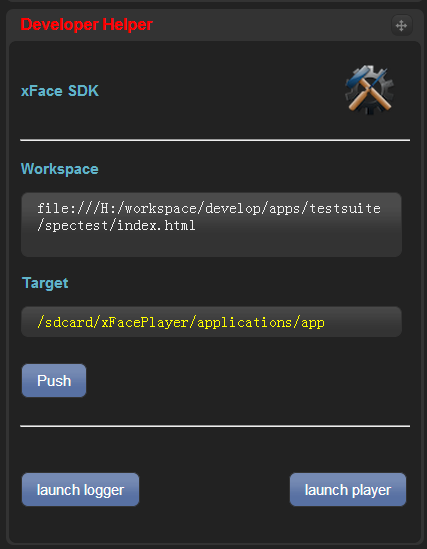
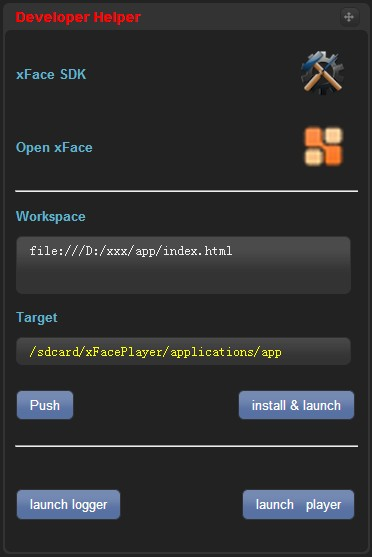
Updated emulator guide
1. Added faq for emulator
2. Updated developer helper panel
3. Added green chrome_emulator guide for emulator installation

diff --git a/tools/emulator/EmulatorInstallAndDebug.md b/tools/emulator/EmulatorInstallAndDebug.md
@@ -4,10 +4,43 @@ title: Emulator安装与应用调试
 lang: zh
 ---
 
-Emulator安装
----
+* Auto-generated toc:
+{:toc}
 
-   * 下载并安装最新的Google Chrome浏览器（参考版本：23.0.1271.64 m）
+## 便携版（推荐）
+**以下内容仅适用于Windows**
+
+对于Windows用户，我们推荐使用便携版Chrome_Emulator:
+
+   * 无需手动安装Emulator插件
+   * 无需手动为Chrome添加启动参数
+
+### 使用方式
+  
+   * 下载[Chrome_Emulator.zip]({{ site.baseurl }}/download/Emulator.zip)并解压到本地（注意：解压路径请不要含有中文字符）
+   * 进入解压后Chrome_Emulator所在目录，启动Chrome_Emulator.exe，请参见下图：
+   
+   ![](img/chrome_emulator_start_page.png)
+   
+   * 在Chrome地址栏中输入应用地址,形如：
+   
+      * __http://xxx/app/index.html__
+      
+      * __file:///D:/xxx/app/index.html__
+
+   * 点击Emulator插件图标![](img/emulatorIcon.png)，选择“Enable”等待页面重新加载
+
+   * 运行Chrome“开发者工具”开始应用调试
+
+## 手动版
+
+**以下内容适用于Windows以及OS X**
+
+手动版要求用户手动安装Emulator并设置Chrome启动参数，具体操作如下：
+
+### Emulator安装
+
+   * 下载并安装最新的Google Chrome浏览器（参考版本：23.0.1271.64）
 
    * 运行Chrome，在地址栏中输入chrome://chrome/extensions/并打开页面（或通过“工具”->“扩展程序”打开）
 
@@ -19,10 +52,10 @@ Emulator安装
 
        ![](img/emulatorAccessFile.png)
 
-应用调试
----
-本地应用调试
----
+### 应用调试
+
+#### 本地应用调试
+
    * 确保开启“允许访问文件网址”权限（打开chrome://chrome/extensions/开启）
 
    * 设置Chrome启动参数：
@@ -32,41 +65,27 @@ Emulator安装
          1. 选择“属性”并编辑“目标”，在行尾添加参数：　--allow-file-access-from-files --disable-web-security
          1. 编辑后“目标”行形如：chrome.exe --allow-file-access-from-files --disable-web-security
 
-      * OSＸ：
+      * OS X：
          1. 运行Terminal.app
          1. 输入： /Applications/Google\ Chrome.app/Contents/MacOS/Google\Chrome --allow-file-access-from-files --disable-web-security
 
    * 重启Chrome并在Chrome中打开本地应用
 
-   * 点击Emulator插件图标  ，选择“Enable”等待页面重新加载完成
+   * 点击Emulator插件图标![](img/emulatorIcon.png)，选择“Enable”等待页面重新加载
 
    * 运行Chrome“开发者工具”开始应用调试
 
-远端应用调试
--
+#### 远端应用调试
 
-   * 运行 Chrome并在地址栏中输入应用地址,如“http://192.168.2.245/develop/apps/testsuite/index.html
-”
+   * 运行 Chrome并在地址栏中输入应用地址,如“http://xxx/app/index.html”
 
-   * 点击Emulator插件图标  ，选择“Enable”等待页面重新加载完成
+   * 点击Emulator插件图标![](img/emulatorIcon.png)，选择“Enable”等待页面重新加载
 
    * 运行Chrome“开发者工具”开始应用调试
 
-其他说明
--
+## 其他说明
 
-   * Chrome安装路径中不能含有中文字符，否则模拟器无法调试本地应用（建议使用绿色版Chrome）
-   
-   * 调试本地应用时，本地应用所在绝对路径不能含有中文字符，否则无法执行内置xface.js以及push文件到真机的操作
-
-   * __模拟器仅支持在调试本地应用时内置xface.js。当调试远端应用时，需要应用开发者手动将与模拟器配套发布的xface.js文件放置到应用根目录下。具体操作如下：__
-
-      * __如果您欲选择“Android”系统的设备进行调试，请将xface.android.js重命名为xface.js，并放置在应用根目录下__
-      * __如果您欲选择“iOS”系统的设备进行调试，请将xface.ios.js重名为xface.js，并放置在应用根目录下__
-
-   * 需保证为Chrome设置了启动参数：--allow-file-access-from-files, 否则本地应用将无法正常加载，控制台输出：“FileSystem error: SECURITY_ERR”
-
-   * 需保证为Chrome设置了启动参数：--disable-web-security ，否则某些场景下应用将无法正确获取网络数据，控制台输出：“XMLHttpRequest cannot load http://xxx. Origin http://xxx is not allowed by Access-Control-Allow-Origin.”
+   如果安装或使用过程中遇到问题，请参考[FAQ]({{ site.baseurl }}/tools/emulator/FAQ.html)或联系<a href="mailto:opensource@polyvi.com">opensource@polyvi.com</a>，我们会尽快回复您！
   
 
 

diff --git a/tools/emulator/FAQ.md b/tools/emulator/FAQ.md
@@ -1,0 +1,48 @@
+---
+layout: default
+title: FAQ
+lang: zh
+---
+
+* Auto-generated toc:
+{:toc}
+
+### 点击Emulator "Enable"选项后，Chrome为何没有重新加载页面
+
+   * 请查看Chrome路径：Chrome所在路径不能含有中文字符
+
+   * 对于手动安装Emulator的用户，请查看Chrome控制台:
+
+      * 如果控制台输出："FileSystem error: SECURITY_ERR"，请为Chrome设置启动参数：__--allow-file-access-from-files__，否则本地应用将无法正常加载
+
+      * 如果控制台输出："XMLHttpRequest cannot load http://xxx. Origin http://xxx is not allowed by Access-Control-Allow-Origin.", 请为Chrome设置启动参数：__--disable-web-security__,否则某些场景下应用将无法正确获取网络数据
+
+### push操作以及xface.js内置操作为何失败
+
+   * push操作以及xface.js内置操作仅在调试本地应用时有效
+
+   * 请查看应用路径：本地应用所在绝对路径不能含有中文字符
+   
+   * 请确保Android设备连接状态正常
+
+
+### 调试远端应用时，Emulator为何无法模拟xFace扩展
+
+   * 调试远端应用时，需要应用开发者手动将与模拟器配套发布的xface.js文件放置到应用根目录下。具体操作如下：
+
+      * __如果您选择“Android”系统的设备进行调试，请将xface.android.js重命名为xface.js，并放置在应用根目录下__
+
+      * __如果您选择“iOS”系统的设备进行调试，请将xface.ios.js重名为xface.js，并放置在应用根目录下__
+      
+### 点击"install & launch",为何命令行提示"error:devcie not found"
+
+   * 请确保Android设备连接状态正常
+      
+### 点击"launch player",为何命令行提示"Error Type 3"
+
+   * 请先执行"install & launch",将xFacePlayer.apk安装到真机后，再尝试执行"launch player"
+
+
+
+
+

diff --git a/tools/emulator/EmulatorUI.md b/tools/emulator/EmulatorUI.md
@@ -4,6 +4,9 @@ title: Emulator UI 介绍
 lang: zh
 ---
 
+* Auto-generated toc:
+{:toc}
+
 ##Devices
 通过“Devices”面板可以选择iOS或Android设备。不同的设备类型，不仅宽高数据不同，其user agent等设备信息也会有所不同. 另外，通过此面板还可以指定设备朝向，从而查看应用在“横屏”或“竖屏”下的布局.
 
@@ -78,10 +81,12 @@ lang: zh
 开发人员通过“Developer Helper”面板可以完成如下操作：
 
    * 快速查看xFace SDK Online
+   * 进入xFace开源网站
    
    * 调试本地应用且连接Android设备时，push local workspace下的文件到真机，以更新xFacePlayer应用（目前不支持增量更新）
+   * 连接Android设备时，安装xFacePlayer到真机并将其启动
    
-   * 启动真机上的xFacePlayer,并通过logger查看log信息
+   * 连接Android设备时，通过logger查看log信息，并在xFacePlayer已安装的情况下，重新启动真机上的xFacePlayer
 
 ![DeveloperHelper](img/emulatorDeveloperHelper.png)
 

diff --git a/tools/emulator/index.md b/tools/emulator/index.md
@@ -10,3 +10,4 @@ lang: zh
    * [模拟器安装与应用调试]({{ site.baseurl }}/tools/emulator/EmulatorInstallAndDebug.html)
    * [模拟器UI介绍]({{ site.baseurl }}/tools/emulator/EmulatorUI.html)
    * [扩展支持情况]({{ site.baseurl }}/tools/emulator/EmulatorSupportList.html)
+   * [FAQ]({{ site.baseurl }}/tools/emulator/FAQ.html)
